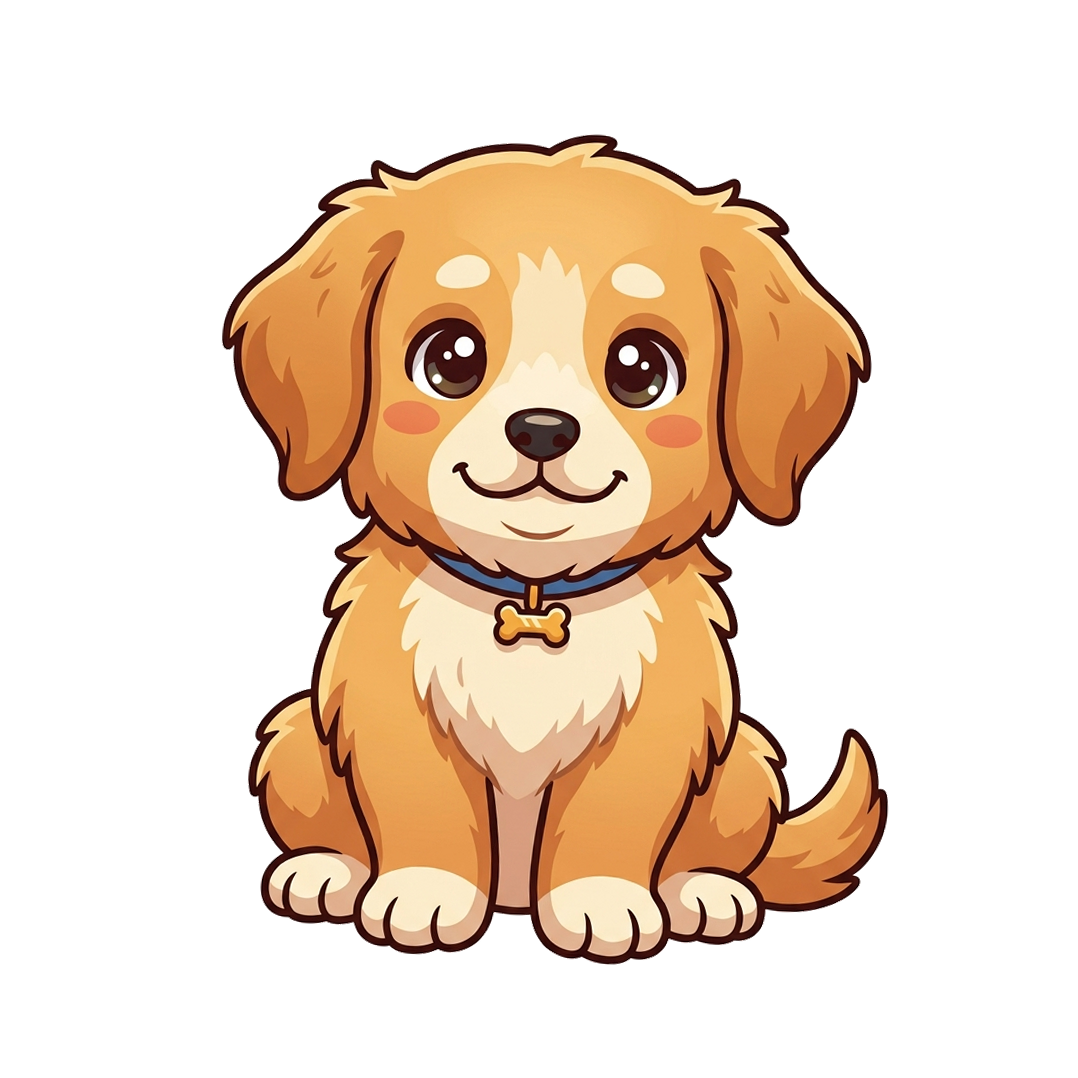
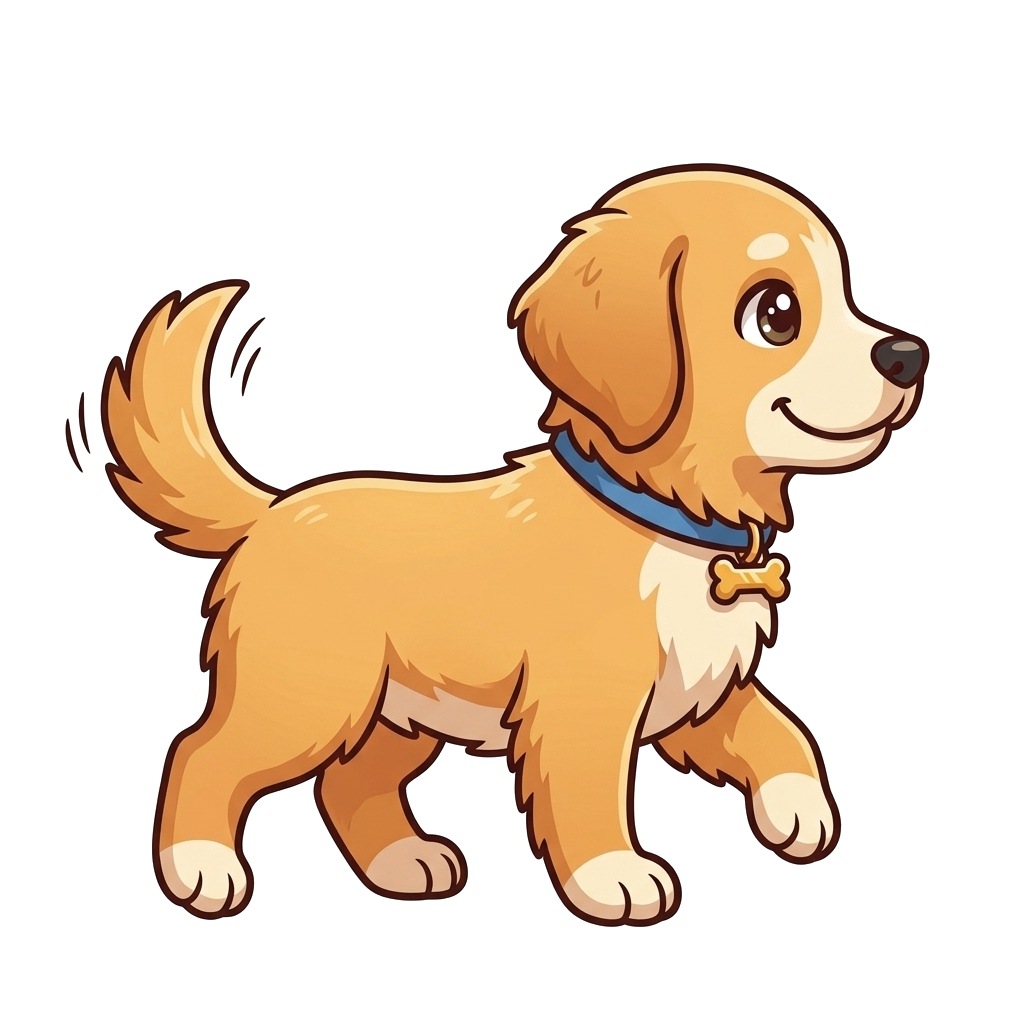
fix(assets): enhance dog and cat walking sprites with side-profile quadruped stride

diff --git a/Sources/Stellina/Core/PetCharacter.swift b/Sources/Stellina/Core/PetCharacter.swift
@@ -56,3 +56,4 @@ public enum PetCharacter: String, CaseIterable, Identifiable {
         }
     }
 }
+

diff --git a/Sources/Stellina/Core/FoodType.swift b/Sources/Stellina/Core/FoodType.swift
@@ -72,3 +72,4 @@ public enum FoodType: String, CaseIterable, Identifiable {
         }
     }
 }
+

diff --git a/docs/PROJECT_STATE.md b/docs/PROJECT_STATE.md
@@ -68,7 +68,9 @@ Comandi vietati:         rm -rf fuori repo, git push --force, alterazione file d
 
 ## Log sessioni (ultime 5, la più recente in alto)
 
+- 2026-10-09 · Perfezionati sprite di camminata per Cane e Gatto: generati sprite in profilo laterale con passo e zampe differenziate (left: zampe sinistre avanti, right: zampe destre avanti) · Asset aggiornati e verificati.
 - 2026-10-09 · Implementata Epic 4: Alessandro Miniello come ideatore, personaggi standard Cane e Gatto con sprite nativi, catalogo cibi (Carota, Osso, Pesce, Bistecca, Formaggio, Mela, Biscotto) e particelle VFX a tema · Moduli pronti per accettazione.
 - 2026-10-09 · Eseguito workflow /onboard completo: mappatura stack, reverse engineering architettura, requisiti dedotti, baseline e backlog prioritizzato · Build CI PASS, suite test da creare.
+
 
 
